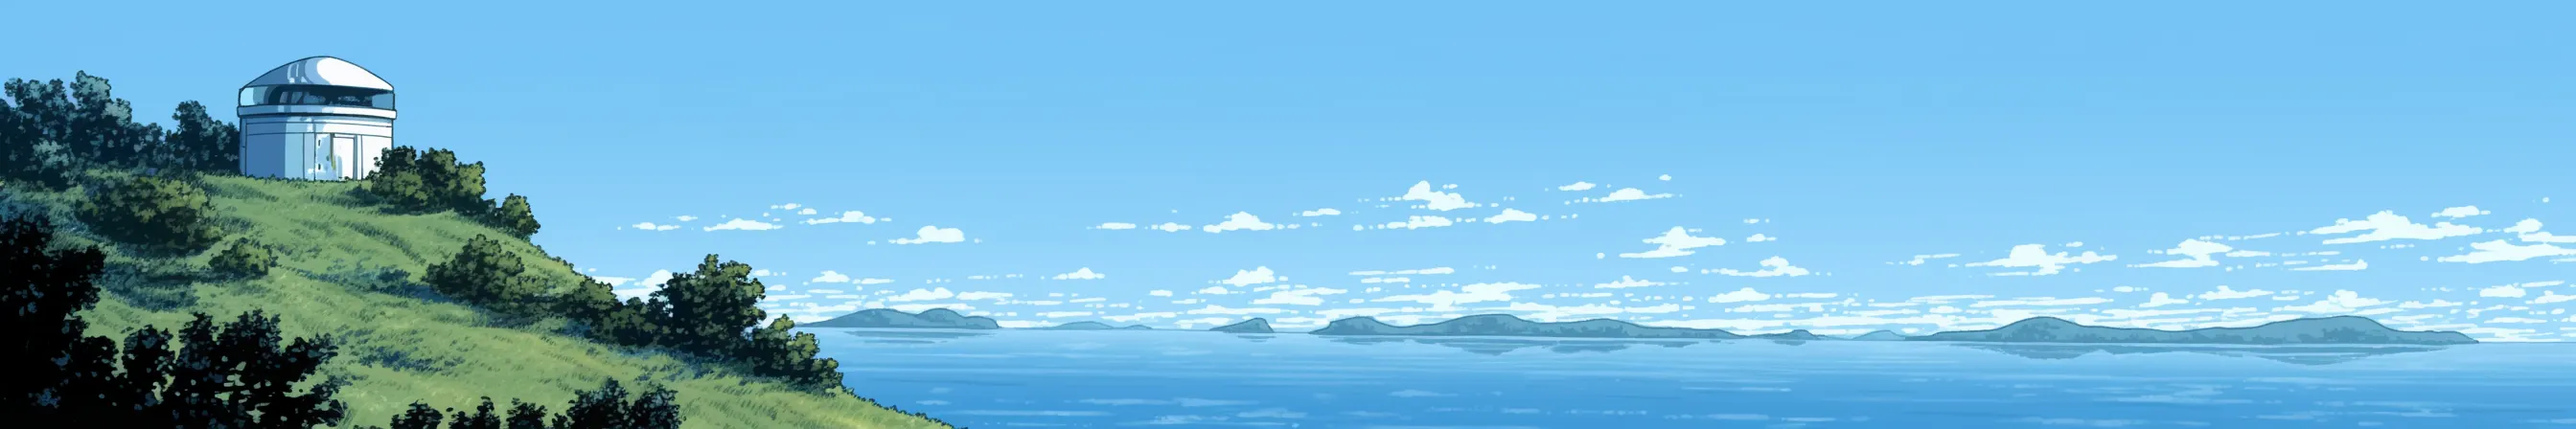
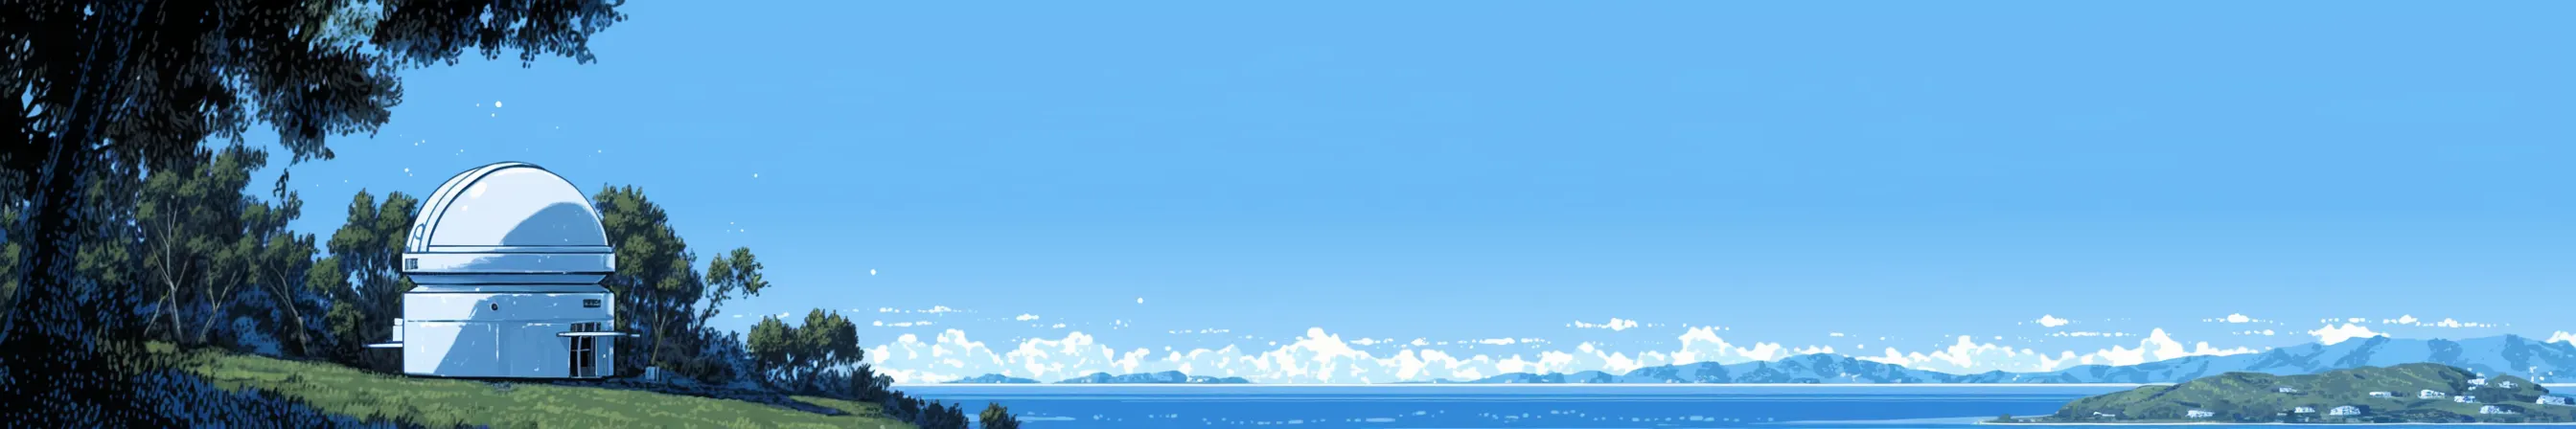
Prove art: a classic domed observatory, placed below the fade

diff --git a/index.md b/index.md
@@ -119,7 +119,7 @@ sections:
       <span class="block whitespace-normal mt-3 text-white">● Orders stopped advancing at 07:52, and it isn’t your code. Acme’s <span class="text-[#F2C27B]">POST /v1/shipments</span> still returns 200, but the response no longer includes <span class="text-[#F2C27B]">tracking_id</span>, so <span class="text-[#F2C27B]">advance()</span> throws and 41 orders are stuck. Your last deploy was <span class="text-[#F2C27B]">b7e21c0</span>, two days ago. Want me to open a pull request with a fallback?</span><span class="block bg-white/10 rounded px-2 py-1 mt-3 text-white"><span class="text-white/50">&gt;</span> yes</span><span class="text-[#4EBA65]">●</span> <b class="text-white">Bash</b>(gh pr create --title "Fall back when tracking_id is absent")
         <span class="text-white/50">⎿  Opened PR #491 · acme/orders-service</span>
   - id: prove
-    art: prove-observatory.webp?v=2
+    art: prove-observatory.webp?v=3
     icon: database
     tone: success
     eyebrow: Prove it
